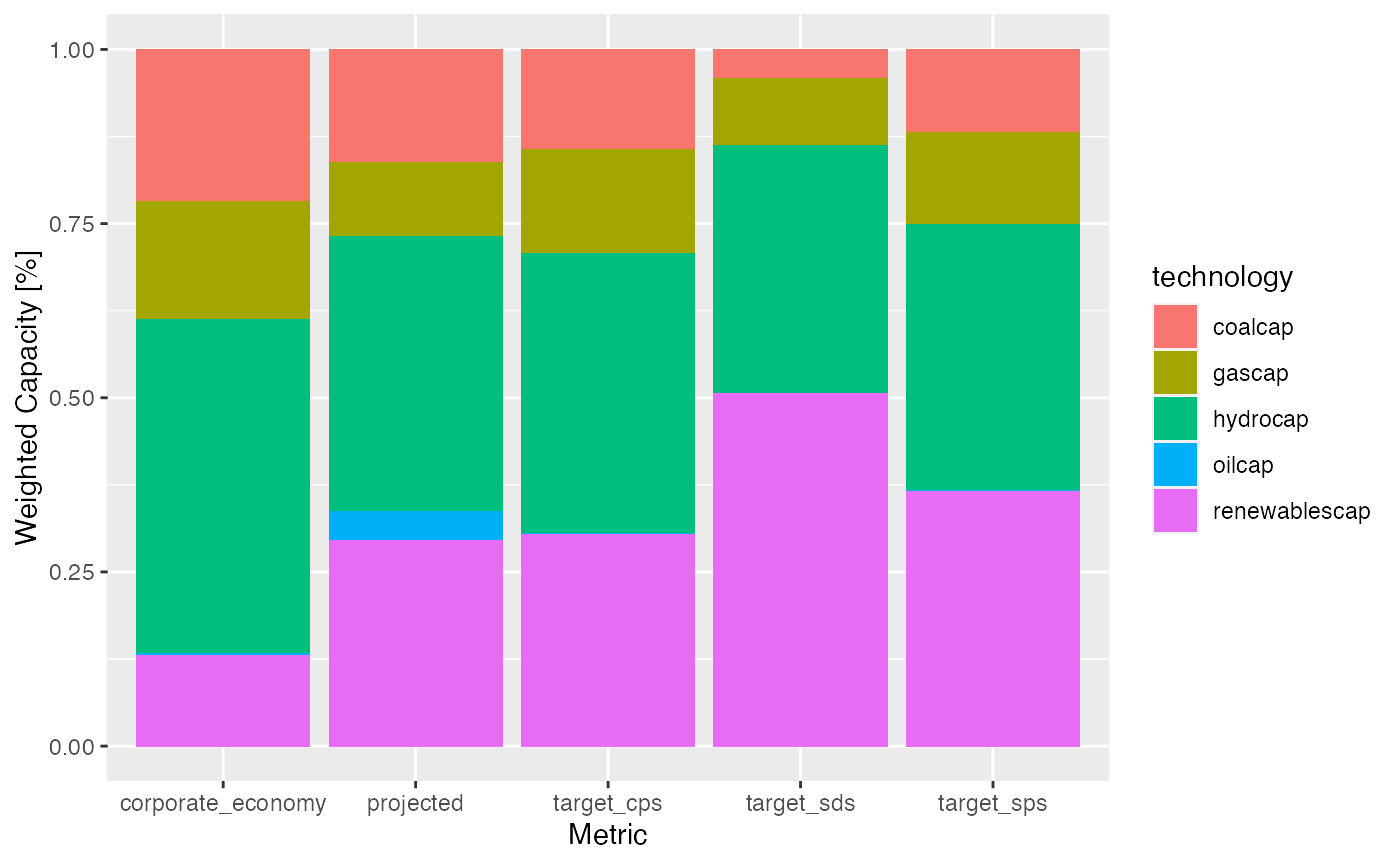
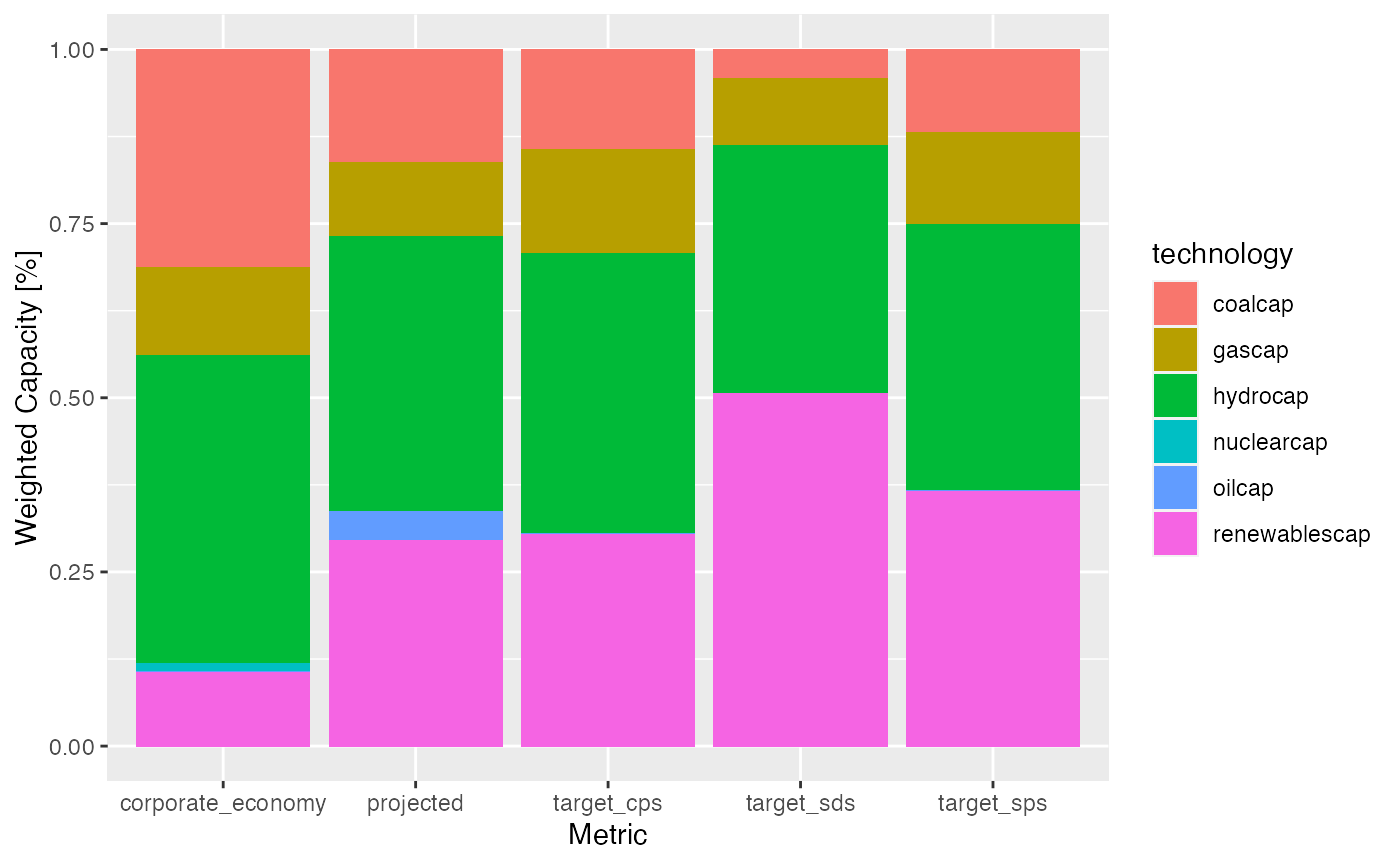
Built site for r2dii.analysis: 0.1.1.9000@3ea4984

Changed region(s): [[0.0921, 0.1561, 0.9829, 0.7803]]

diff --git a/dev/reference/target_market_share.html b/dev/reference/target_market_share.html
@@ -258,20 +258,20 @@ column <code>name_ald</code>.</p>
     scenario <span class='op'>=</span> <span class='va'>scenario_demo_2020</span>,
     region_isos <span class='op'>=</span> <span class='va'>region_isos_demo</span>
   <span class='op'>)</span>
-</div><div class='output co'>#&gt; <span style='color: #555555;'># A tibble: 1,170 x 8</span><span>
+</div><div class='output co'>#&gt; <span style='color: #555555;'># A tibble: 3,479 x 8</span><span>
 #&gt;    sector technology  year region scenario_source metric production
 #&gt;    </span><span style='color: #555555;font-style: italic;'>&lt;chr&gt;</span><span>  </span><span style='color: #555555;font-style: italic;'>&lt;chr&gt;</span><span>      </span><span style='color: #555555;font-style: italic;'>&lt;int&gt;</span><span> </span><span style='color: #555555;font-style: italic;'>&lt;chr&gt;</span><span>  </span><span style='color: #555555;font-style: italic;'>&lt;chr&gt;</span><span>           </span><span style='color: #555555;font-style: italic;'>&lt;chr&gt;</span><span>       </span><span style='color: #555555;font-style: italic;'>&lt;dbl&gt;</span><span>
 #&gt; </span><span style='color: #555555;'> 1</span><span> autom… electric    </span><span style='text-decoration: underline;'>2</span><span>020 global demo_2020       proje…    </span><span style='text-decoration: underline;'>145</span><span>942.
-#&gt; </span><span style='color: #555555;'> 2</span><span> autom… electric    </span><span style='text-decoration: underline;'>2</span><span>020 global demo_2020       corpo…   8</span><span style='text-decoration: underline;'>134</span><span>869.
+#&gt; </span><span style='color: #555555;'> 2</span><span> autom… electric    </span><span style='text-decoration: underline;'>2</span><span>020 global demo_2020       targe…    </span><span style='text-decoration: underline;'>145</span><span>942.
 #&gt; </span><span style='color: #555555;'> 3</span><span> autom… electric    </span><span style='text-decoration: underline;'>2</span><span>020 global demo_2020       targe…    </span><span style='text-decoration: underline;'>145</span><span>942.
 #&gt; </span><span style='color: #555555;'> 4</span><span> autom… electric    </span><span style='text-decoration: underline;'>2</span><span>020 global demo_2020       targe…    </span><span style='text-decoration: underline;'>145</span><span>942.
-#&gt; </span><span style='color: #555555;'> 5</span><span> autom… electric    </span><span style='text-decoration: underline;'>2</span><span>020 global demo_2020       targe…    </span><span style='text-decoration: underline;'>145</span><span>942.
-#&gt; </span><span style='color: #555555;'> 6</span><span> autom… electric    </span><span style='text-decoration: underline;'>2</span><span>021 global demo_2020       proje…    </span><span style='text-decoration: underline;'>148</span><span>212.
-#&gt; </span><span style='color: #555555;'> 7</span><span> autom… electric    </span><span style='text-decoration: underline;'>2</span><span>021 global demo_2020       corpo…   8</span><span style='text-decoration: underline;'>183</span><span>411.
-#&gt; </span><span style='color: #555555;'> 8</span><span> autom… electric    </span><span style='text-decoration: underline;'>2</span><span>021 global demo_2020       targe…    </span><span style='text-decoration: underline;'>148</span><span>361.
-#&gt; </span><span style='color: #555555;'> 9</span><span> autom… electric    </span><span style='text-decoration: underline;'>2</span><span>021 global demo_2020       targe…    </span><span style='text-decoration: underline;'>160</span><span>625.
-#&gt; </span><span style='color: #555555;'>10</span><span> autom… electric    </span><span style='text-decoration: underline;'>2</span><span>021 global demo_2020       targe…    </span><span style='text-decoration: underline;'>149</span><span>016.
-#&gt; </span><span style='color: #555555;'># … with 1,160 more rows, and 1 more variable: technology_share </span><span style='color: #555555;font-style: italic;'>&lt;dbl&gt;</span><span></div><div class='input'>
+#&gt; </span><span style='color: #555555;'> 5</span><span> autom… electric    </span><span style='text-decoration: underline;'>2</span><span>021 global demo_2020       proje…    </span><span style='text-decoration: underline;'>148</span><span>212.
+#&gt; </span><span style='color: #555555;'> 6</span><span> autom… electric    </span><span style='text-decoration: underline;'>2</span><span>021 global demo_2020       targe…    </span><span style='text-decoration: underline;'>148</span><span>361.
+#&gt; </span><span style='color: #555555;'> 7</span><span> autom… electric    </span><span style='text-decoration: underline;'>2</span><span>021 global demo_2020       targe…    </span><span style='text-decoration: underline;'>160</span><span>625.
+#&gt; </span><span style='color: #555555;'> 8</span><span> autom… electric    </span><span style='text-decoration: underline;'>2</span><span>021 global demo_2020       targe…    </span><span style='text-decoration: underline;'>149</span><span>016.
+#&gt; </span><span style='color: #555555;'> 9</span><span> autom… electric    </span><span style='text-decoration: underline;'>2</span><span>022 global demo_2020       proje…    </span><span style='text-decoration: underline;'>150</span><span>481.
+#&gt; </span><span style='color: #555555;'>10</span><span> autom… electric    </span><span style='text-decoration: underline;'>2</span><span>022 global demo_2020       targe…    </span><span style='text-decoration: underline;'>150</span><span>730.
+#&gt; </span><span style='color: #555555;'># … with 3,469 more rows, and 1 more variable: technology_share </span><span style='color: #555555;font-style: italic;'>&lt;dbl&gt;</span><span></div><div class='input'>
 <span class='co'># Calculate targets at company level</span>
 <span class='va'>matched</span> <span class='op'>%&gt;%</span>
   <span class='fu'>target_market_share</span><span class='op'>(</span>
@@ -283,20 +283,20 @@ column <code>name_ald</code>.</p>
 </div><div class='output co'>#&gt; <span class='warning'>Warning: You've supplied `by_company = TRUE` and `weight_production = TRUE`.</span>
 #&gt; <span class='warning'>This will result in company-level results, weighted by the portfolio</span>
 #&gt; <span class='warning'>loan size, which is rarely useful. Did you mean to set one of these</span>
-#&gt; <span class='warning'>arguments to `FALSE`?</span></div><div class='output co'>#&gt; </span><span style='color: #555555;'># A tibble: 15,945 x 9</span><span>
+#&gt; <span class='warning'>arguments to `FALSE`?</span></div><div class='output co'>#&gt; </span><span style='color: #555555;'># A tibble: 15,299 x 9</span><span>
 #&gt;    sector technology  year region scenario_source name_ald metric production
 #&gt;    </span><span style='color: #555555;font-style: italic;'>&lt;chr&gt;</span><span>  </span><span style='color: #555555;font-style: italic;'>&lt;chr&gt;</span><span>      </span><span style='color: #555555;font-style: italic;'>&lt;int&gt;</span><span> </span><span style='color: #555555;font-style: italic;'>&lt;chr&gt;</span><span>  </span><span style='color: #555555;font-style: italic;'>&lt;chr&gt;</span><span>           </span><span style='color: #555555;font-style: italic;'>&lt;chr&gt;</span><span>    </span><span style='color: #555555;font-style: italic;'>&lt;chr&gt;</span><span>       </span><span style='color: #555555;font-style: italic;'>&lt;dbl&gt;</span><span>
 #&gt; </span><span style='color: #555555;'> 1</span><span> autom… electric    </span><span style='text-decoration: underline;'>2</span><span>020 global demo_2020       shangha… proje…      </span><span style='text-decoration: underline;'>5</span><span>140.
-#&gt; </span><span style='color: #555555;'> 2</span><span> autom… electric    </span><span style='text-decoration: underline;'>2</span><span>020 global demo_2020       shangha… corpo…   8</span><span style='text-decoration: underline;'>134</span><span>869.
+#&gt; </span><span style='color: #555555;'> 2</span><span> autom… electric    </span><span style='text-decoration: underline;'>2</span><span>020 global demo_2020       shangha… targe…      </span><span style='text-decoration: underline;'>5</span><span>140.
 #&gt; </span><span style='color: #555555;'> 3</span><span> autom… electric    </span><span style='text-decoration: underline;'>2</span><span>020 global demo_2020       shangha… targe…      </span><span style='text-decoration: underline;'>5</span><span>140.
 #&gt; </span><span style='color: #555555;'> 4</span><span> autom… electric    </span><span style='text-decoration: underline;'>2</span><span>020 global demo_2020       shangha… targe…      </span><span style='text-decoration: underline;'>5</span><span>140.
-#&gt; </span><span style='color: #555555;'> 5</span><span> autom… electric    </span><span style='text-decoration: underline;'>2</span><span>020 global demo_2020       shangha… targe…      </span><span style='text-decoration: underline;'>5</span><span>140.
-#&gt; </span><span style='color: #555555;'> 6</span><span> autom… electric    </span><span style='text-decoration: underline;'>2</span><span>020 global demo_2020       sichuan… proje…      </span><span style='text-decoration: underline;'>2</span><span>992.
-#&gt; </span><span style='color: #555555;'> 7</span><span> autom… electric    </span><span style='text-decoration: underline;'>2</span><span>020 global demo_2020       sichuan… corpo…   8</span><span style='text-decoration: underline;'>134</span><span>869.
+#&gt; </span><span style='color: #555555;'> 5</span><span> autom… electric    </span><span style='text-decoration: underline;'>2</span><span>020 global demo_2020       sichuan… proje…      </span><span style='text-decoration: underline;'>2</span><span>992.
+#&gt; </span><span style='color: #555555;'> 6</span><span> autom… electric    </span><span style='text-decoration: underline;'>2</span><span>020 global demo_2020       sichuan… targe…      </span><span style='text-decoration: underline;'>2</span><span>992.
+#&gt; </span><span style='color: #555555;'> 7</span><span> autom… electric    </span><span style='text-decoration: underline;'>2</span><span>020 global demo_2020       sichuan… targe…      </span><span style='text-decoration: underline;'>2</span><span>992.
 #&gt; </span><span style='color: #555555;'> 8</span><span> autom… electric    </span><span style='text-decoration: underline;'>2</span><span>020 global demo_2020       sichuan… targe…      </span><span style='text-decoration: underline;'>2</span><span>992.
-#&gt; </span><span style='color: #555555;'> 9</span><span> autom… electric    </span><span style='text-decoration: underline;'>2</span><span>020 global demo_2020       sichuan… targe…      </span><span style='text-decoration: underline;'>2</span><span>992.
-#&gt; </span><span style='color: #555555;'>10</span><span> autom… electric    </span><span style='text-decoration: underline;'>2</span><span>020 global demo_2020       sichuan… targe…      </span><span style='text-decoration: underline;'>2</span><span>992.
-#&gt; </span><span style='color: #555555;'># … with 15,935 more rows, and 1 more variable: technology_share </span><span style='color: #555555;font-style: italic;'>&lt;dbl&gt;</span><span></div><div class='input'>
+#&gt; </span><span style='color: #555555;'> 9</span><span> autom… electric    </span><span style='text-decoration: underline;'>2</span><span>020 global demo_2020       singula… proje…      </span><span style='text-decoration: underline;'>8</span><span>674.
+#&gt; </span><span style='color: #555555;'>10</span><span> autom… electric    </span><span style='text-decoration: underline;'>2</span><span>020 global demo_2020       singula… targe…      </span><span style='text-decoration: underline;'>8</span><span>674.
+#&gt; </span><span style='color: #555555;'># … with 15,289 more rows, and 1 more variable: technology_share </span><span style='color: #555555;font-style: italic;'>&lt;dbl&gt;</span><span></div><div class='input'>
 <span class='va'>matched</span> <span class='op'>%&gt;%</span>
   <span class='fu'>target_market_share</span><span class='op'>(</span>
     ald <span class='op'>=</span> <span class='va'>ald_demo</span>,
@@ -305,20 +305,20 @@ column <code>name_ald</code>.</p>
     <span class='co'># Calculate unweighted targets</span>
     weight_production <span class='op'>=</span> <span class='cn'>FALSE</span>
   <span class='op'>)</span>
-</div><div class='output co'>#&gt; </span><span style='color: #555555;'># A tibble: 1,170 x 8</span><span>
+</div><div class='output co'>#&gt; </span><span style='color: #555555;'># A tibble: 3,479 x 8</span><span>
 #&gt;    sector technology  year region scenario_source metric production
 #&gt;    </span><span style='color: #555555;font-style: italic;'>&lt;chr&gt;</span><span>  </span><span style='color: #555555;font-style: italic;'>&lt;chr&gt;</span><span>      </span><span style='color: #555555;font-style: italic;'>&lt;int&gt;</span><span> </span><span style='color: #555555;font-style: italic;'>&lt;chr&gt;</span><span>  </span><span style='color: #555555;font-style: italic;'>&lt;chr&gt;</span><span>           </span><span style='color: #555555;font-style: italic;'>&lt;chr&gt;</span><span>       </span><span style='color: #555555;font-style: italic;'>&lt;dbl&gt;</span><span>
 #&gt; </span><span style='color: #555555;'> 1</span><span> autom… electric    </span><span style='text-decoration: underline;'>2</span><span>020 global demo_2020       proje…   6</span><span style='text-decoration: underline;'>630</span><span>404.
-#&gt; </span><span style='color: #555555;'> 2</span><span> autom… electric    </span><span style='text-decoration: underline;'>2</span><span>020 global demo_2020       corpo…   8</span><span style='text-decoration: underline;'>134</span><span>869.
+#&gt; </span><span style='color: #555555;'> 2</span><span> autom… electric    </span><span style='text-decoration: underline;'>2</span><span>020 global demo_2020       targe…   6</span><span style='text-decoration: underline;'>630</span><span>404.
 #&gt; </span><span style='color: #555555;'> 3</span><span> autom… electric    </span><span style='text-decoration: underline;'>2</span><span>020 global demo_2020       targe…   6</span><span style='text-decoration: underline;'>630</span><span>404.
 #&gt; </span><span style='color: #555555;'> 4</span><span> autom… electric    </span><span style='text-decoration: underline;'>2</span><span>020 global demo_2020       targe…   6</span><span style='text-decoration: underline;'>630</span><span>404.
-#&gt; </span><span style='color: #555555;'> 5</span><span> autom… electric    </span><span style='text-decoration: underline;'>2</span><span>020 global demo_2020       targe…   6</span><span style='text-decoration: underline;'>630</span><span>404.
-#&gt; </span><span style='color: #555555;'> 6</span><span> autom… electric    </span><span style='text-decoration: underline;'>2</span><span>021 global demo_2020       proje…   6</span><span style='text-decoration: underline;'>731</span><span>628.
-#&gt; </span><span style='color: #555555;'> 7</span><span> autom… electric    </span><span style='text-decoration: underline;'>2</span><span>021 global demo_2020       corpo…   8</span><span style='text-decoration: underline;'>183</span><span>411.
-#&gt; </span><span style='color: #555555;'> 8</span><span> autom… electric    </span><span style='text-decoration: underline;'>2</span><span>021 global demo_2020       targe…   6</span><span style='text-decoration: underline;'>743</span><span>979.
-#&gt; </span><span style='color: #555555;'> 9</span><span> autom… electric    </span><span style='text-decoration: underline;'>2</span><span>021 global demo_2020       targe…   7</span><span style='text-decoration: underline;'>319</span><span>707.
-#&gt; </span><span style='color: #555555;'>10</span><span> autom… electric    </span><span style='text-decoration: underline;'>2</span><span>021 global demo_2020       targe…   6</span><span style='text-decoration: underline;'>774</span><span>698.
-#&gt; </span><span style='color: #555555;'># … with 1,160 more rows, and 1 more variable: technology_share </span><span style='color: #555555;font-style: italic;'>&lt;dbl&gt;</span><span></div></span></pre>
+#&gt; </span><span style='color: #555555;'> 5</span><span> autom… electric    </span><span style='text-decoration: underline;'>2</span><span>021 global demo_2020       proje…   6</span><span style='text-decoration: underline;'>731</span><span>628.
+#&gt; </span><span style='color: #555555;'> 6</span><span> autom… electric    </span><span style='text-decoration: underline;'>2</span><span>021 global demo_2020       targe…   6</span><span style='text-decoration: underline;'>743</span><span>979.
+#&gt; </span><span style='color: #555555;'> 7</span><span> autom… electric    </span><span style='text-decoration: underline;'>2</span><span>021 global demo_2020       targe…   7</span><span style='text-decoration: underline;'>319</span><span>707.
+#&gt; </span><span style='color: #555555;'> 8</span><span> autom… electric    </span><span style='text-decoration: underline;'>2</span><span>021 global demo_2020       targe…   6</span><span style='text-decoration: underline;'>774</span><span>698.
+#&gt; </span><span style='color: #555555;'> 9</span><span> autom… electric    </span><span style='text-decoration: underline;'>2</span><span>022 global demo_2020       proje…   6</span><span style='text-decoration: underline;'>832</span><span>852.
+#&gt; </span><span style='color: #555555;'>10</span><span> autom… electric    </span><span style='text-decoration: underline;'>2</span><span>022 global demo_2020       targe…   6</span><span style='text-decoration: underline;'>855</span><span>166.
+#&gt; </span><span style='color: #555555;'># … with 3,469 more rows, and 1 more variable: technology_share </span><span style='color: #555555;font-style: italic;'>&lt;dbl&gt;</span><span></div></span></pre>
   </div>
   <div class="col-md-3 hidden-xs hidden-sm" id="pkgdown-sidebar">
     <nav id="toc" data-toggle="toc" class="sticky-top">

diff --git a/dev/articles/r2dii-analysis.html b/dev/articles/r2dii-analysis.html
@@ -211,20 +211,20 @@
   <span class="op">)</span>
 
 <span class="va">market_share_targets_portfolio</span>
-<span class="co">#&gt; # A tibble: 1,170 x 8</span>
+<span class="co">#&gt; # A tibble: 3,479 x 8</span>
 <span class="co">#&gt;    sector technology  year region scenario_source metric production</span>
 <span class="co">#&gt;    &lt;chr&gt;  &lt;chr&gt;      &lt;int&gt; &lt;chr&gt;  &lt;chr&gt;           &lt;chr&gt;       &lt;dbl&gt;</span>
 <span class="co">#&gt;  1 autom… electric    2020 global demo_2020       proje…    145942.</span>
-<span class="co">#&gt;  2 autom… electric    2020 global demo_2020       corpo…   8134869.</span>
+<span class="co">#&gt;  2 autom… electric    2020 global demo_2020       targe…    145942.</span>
 <span class="co">#&gt;  3 autom… electric    2020 global demo_2020       targe…    145942.</span>
 <span class="co">#&gt;  4 autom… electric    2020 global demo_2020       targe…    145942.</span>
-<span class="co">#&gt;  5 autom… electric    2020 global demo_2020       targe…    145942.</span>
-<span class="co">#&gt;  6 autom… electric    2021 global demo_2020       proje…    148212.</span>
-<span class="co">#&gt;  7 autom… electric    2021 global demo_2020       corpo…   8183411.</span>
-<span class="co">#&gt;  8 autom… electric    2021 global demo_2020       targe…    148361.</span>
-<span class="co">#&gt;  9 autom… electric    2021 global demo_2020       targe…    160625.</span>
-<span class="co">#&gt; 10 autom… electric    2021 global demo_2020       targe…    149016.</span>
-<span class="co">#&gt; # … with 1,160 more rows, and 1 more variable: technology_share &lt;dbl&gt;</span></code></pre></div>
+<span class="co">#&gt;  5 autom… electric    2021 global demo_2020       proje…    148212.</span>
+<span class="co">#&gt;  6 autom… electric    2021 global demo_2020       targe…    148361.</span>
+<span class="co">#&gt;  7 autom… electric    2021 global demo_2020       targe…    160625.</span>
+<span class="co">#&gt;  8 autom… electric    2021 global demo_2020       targe…    149016.</span>
+<span class="co">#&gt;  9 autom… electric    2022 global demo_2020       proje…    150481.</span>
+<span class="co">#&gt; 10 autom… electric    2022 global demo_2020       targe…    150730.</span>
+<span class="co">#&gt; # … with 3,469 more rows, and 1 more variable: technology_share &lt;dbl&gt;</span></code></pre></div>
 <p>Or at the company level:</p>
 <div class="sourceCode" id="cb5"><pre class="downlit sourceCode r">
 <code class="sourceCode R"><span class="va">market_share_targets_company</span> <span class="op">&lt;-</span> <span class="va">matched</span> <span class="op">%&gt;%</span>
@@ -241,20 +241,20 @@
 <span class="co">#&gt; arguments to `FALSE`?</span>
 
 <span class="va">market_share_targets_company</span>
-<span class="co">#&gt; # A tibble: 15,945 x 9</span>
+<span class="co">#&gt; # A tibble: 15,299 x 9</span>
 <span class="co">#&gt;    sector technology  year region scenario_source name_ald metric production</span>
 <span class="co">#&gt;    &lt;chr&gt;  &lt;chr&gt;      &lt;int&gt; &lt;chr&gt;  &lt;chr&gt;           &lt;chr&gt;    &lt;chr&gt;       &lt;dbl&gt;</span>
 <span class="co">#&gt;  1 autom… electric    2020 global demo_2020       shangha… proje…      5140.</span>
-<span class="co">#&gt;  2 autom… electric    2020 global demo_2020       shangha… corpo…   8134869.</span>
+<span class="co">#&gt;  2 autom… electric    2020 global demo_2020       shangha… targe…      5140.</span>
 <span class="co">#&gt;  3 autom… electric    2020 global demo_2020       shangha… targe…      5140.</span>
 <span class="co">#&gt;  4 autom… electric    2020 global demo_2020       shangha… targe…      5140.</span>
-<span class="co">#&gt;  5 autom… electric    2020 global demo_2020       shangha… targe…      5140.</span>
-<span class="co">#&gt;  6 autom… electric    2020 global demo_2020       sichuan… proje…      2992.</span>
-<span class="co">#&gt;  7 autom… electric    2020 global demo_2020       sichuan… corpo…   8134869.</span>
+<span class="co">#&gt;  5 autom… electric    2020 global demo_2020       sichuan… proje…      2992.</span>
+<span class="co">#&gt;  6 autom… electric    2020 global demo_2020       sichuan… targe…      2992.</span>
+<span class="co">#&gt;  7 autom… electric    2020 global demo_2020       sichuan… targe…      2992.</span>
 <span class="co">#&gt;  8 autom… electric    2020 global demo_2020       sichuan… targe…      2992.</span>
-<span class="co">#&gt;  9 autom… electric    2020 global demo_2020       sichuan… targe…      2992.</span>
-<span class="co">#&gt; 10 autom… electric    2020 global demo_2020       sichuan… targe…      2992.</span>
-<span class="co">#&gt; # … with 15,935 more rows, and 1 more variable: technology_share &lt;dbl&gt;</span></code></pre></div>
+<span class="co">#&gt;  9 autom… electric    2020 global demo_2020       singula… proje…      8674.</span>
+<span class="co">#&gt; 10 autom… electric    2020 global demo_2020       singula… targe…      8674.</span>
+<span class="co">#&gt; # … with 15,289 more rows, and 1 more variable: technology_share &lt;dbl&gt;</span></code></pre></div>
 </div>
 <div id="sectoral-decarbonization-approach" class="section level3">
 <h3 class="hasAnchor">
@@ -383,7 +383,10 @@
       linetype <span class="op">=</span> <span class="va">metric</span>
     <span class="op">)</span>
   <span class="op">)</span> <span class="op">+</span>
-  <span class="fu">facet_wrap</span><span class="op">(</span><span class="fu">vars</span><span class="op">(</span><span class="va">sector</span>, <span class="va">technology</span><span class="op">)</span><span class="op">)</span></code></pre></div>
+  <span class="fu">facet_wrap</span><span class="op">(</span><span class="fu">vars</span><span class="op">(</span><span class="va">sector</span>, <span class="va">technology</span><span class="op">)</span><span class="op">)</span>
+<span class="co">#&gt; Warning in max(ids, na.rm = TRUE): no non-missing arguments to max; returning -</span>
+<span class="co">#&gt; Inf</span>
+<span class="co">#&gt; Warning: Removed 35 row(s) containing missing values (geom_path).</span></code></pre></div>
 <p><img src="r2dii-analysis_files/figure-html/plot-year-versus-weithed-production-value-1.png" width="100%"></p>
 </div>
 <div id="sda-target" class="section level3">

diff --git a/dev/articles/target-market-share.html b/dev/articles/target-market-share.html
@@ -223,20 +223,20 @@
 
 
 <span class="va">matched</span> <span class="op">%&gt;%</span> <span class="fu"><a href="../reference/target_market_share.html">target_market_share</a></span><span class="op">(</span><span class="va">ald</span>, <span class="va">scenario</span>, <span class="va">regions</span><span class="op">)</span>
-<span class="co">#&gt; # A tibble: 1,170 x 8</span>
+<span class="co">#&gt; # A tibble: 3,479 x 8</span>
 <span class="co">#&gt;    sector technology  year region scenario_source metric production</span>
 <span class="co">#&gt;    &lt;chr&gt;  &lt;chr&gt;      &lt;int&gt; &lt;chr&gt;  &lt;chr&gt;           &lt;chr&gt;       &lt;dbl&gt;</span>
 <span class="co">#&gt;  1 autom… electric    2020 global demo_2020       proje…    145942.</span>
-<span class="co">#&gt;  2 autom… electric    2020 global demo_2020       corpo…   8134869.</span>
+<span class="co">#&gt;  2 autom… electric    2020 global demo_2020       targe…    145942.</span>
 <span class="co">#&gt;  3 autom… electric    2020 global demo_2020       targe…    145942.</span>
 <span class="co">#&gt;  4 autom… electric    2020 global demo_2020       targe…    145942.</span>
-<span class="co">#&gt;  5 autom… electric    2020 global demo_2020       targe…    145942.</span>
-<span class="co">#&gt;  6 autom… electric    2021 global demo_2020       proje…    148212.</span>
-<span class="co">#&gt;  7 autom… electric    2021 global demo_2020       corpo…   8183411.</span>
-<span class="co">#&gt;  8 autom… electric    2021 global demo_2020       targe…    148361.</span>
-<span class="co">#&gt;  9 autom… electric    2021 global demo_2020       targe…    160625.</span>
-<span class="co">#&gt; 10 autom… electric    2021 global demo_2020       targe…    149016.</span>
-<span class="co">#&gt; # … with 1,160 more rows, and 1 more variable: technology_share &lt;dbl&gt;</span></code></pre></div>
+<span class="co">#&gt;  5 autom… electric    2021 global demo_2020       proje…    148212.</span>
+<span class="co">#&gt;  6 autom… electric    2021 global demo_2020       targe…    148361.</span>
+<span class="co">#&gt;  7 autom… electric    2021 global demo_2020       targe…    160625.</span>
+<span class="co">#&gt;  8 autom… electric    2021 global demo_2020       targe…    149016.</span>
+<span class="co">#&gt;  9 autom… electric    2022 global demo_2020       proje…    150481.</span>
+<span class="co">#&gt; 10 autom… electric    2022 global demo_2020       targe…    150730.</span>
+<span class="co">#&gt; # … with 3,469 more rows, and 1 more variable: technology_share &lt;dbl&gt;</span></code></pre></div>
 <ul>
 <li>Calculate market-share targets for production at the company level.</li>
 </ul>
@@ -246,20 +246,20 @@
 <span class="co">#&gt; This will result in company-level results, weighted by the portfolio</span>
 <span class="co">#&gt; loan size, which is rarely useful. Did you mean to set one of these</span>
 <span class="co">#&gt; arguments to `FALSE`?</span>
-<span class="co">#&gt; # A tibble: 15,945 x 9</span>
+<span class="co">#&gt; # A tibble: 15,299 x 9</span>
 <span class="co">#&gt;    sector technology  year region scenario_source name_ald metric production</span>
 <span class="co">#&gt;    &lt;chr&gt;  &lt;chr&gt;      &lt;int&gt; &lt;chr&gt;  &lt;chr&gt;           &lt;chr&gt;    &lt;chr&gt;       &lt;dbl&gt;</span>
 <span class="co">#&gt;  1 autom… electric    2020 global demo_2020       shangha… proje…      5140.</span>
-<span class="co">#&gt;  2 autom… electric    2020 global demo_2020       shangha… corpo…   8134869.</span>
+<span class="co">#&gt;  2 autom… electric    2020 global demo_2020       shangha… targe…      5140.</span>
 <span class="co">#&gt;  3 autom… electric    2020 global demo_2020       shangha… targe…      5140.</span>
 <span class="co">#&gt;  4 autom… electric    2020 global demo_2020       shangha… targe…      5140.</span>
-<span class="co">#&gt;  5 autom… electric    2020 global demo_2020       shangha… targe…      5140.</span>
-<span class="co">#&gt;  6 autom… electric    2020 global demo_2020       sichuan… proje…      2992.</span>
-<span class="co">#&gt;  7 autom… electric    2020 global demo_2020       sichuan… corpo…   8134869.</span>
+<span class="co">#&gt;  5 autom… electric    2020 global demo_2020       sichuan… proje…      2992.</span>
+<span class="co">#&gt;  6 autom… electric    2020 global demo_2020       sichuan… targe…      2992.</span>
+<span class="co">#&gt;  7 autom… electric    2020 global demo_2020       sichuan… targe…      2992.</span>
 <span class="co">#&gt;  8 autom… electric    2020 global demo_2020       sichuan… targe…      2992.</span>
-<span class="co">#&gt;  9 autom… electric    2020 global demo_2020       sichuan… targe…      2992.</span>
-<span class="co">#&gt; 10 autom… electric    2020 global demo_2020       sichuan… targe…      2992.</span>
-<span class="co">#&gt; # … with 15,935 more rows, and 1 more variable: technology_share &lt;dbl&gt;</span></code></pre></div>
+<span class="co">#&gt;  9 autom… electric    2020 global demo_2020       singula… proje…      8674.</span>
+<span class="co">#&gt; 10 autom… electric    2020 global demo_2020       singula… targe…      8674.</span>
+<span class="co">#&gt; # … with 15,289 more rows, and 1 more variable: technology_share &lt;dbl&gt;</span></code></pre></div>
 </div>
   </div>
 

diff --git a/dev/news/index.html b/dev/news/index.html
@@ -169,6 +169,7 @@
 <a href="#r2diianalysis-development-version" class="anchor"></a>r2dii.analysis (development version)<small> Unreleased </small>
 </h1>
 <ul>
+<li><p><code>target_market_share</code> now outputs all technologies present in <code>ald</code>, even if they are not present in <code>data</code> (<a href='https://github.com/2DegreesInvesting/r2dii.analysis/issues/235'>#235</a>).</p></li>
 <li><p>New internal data <code>loanbook_stable</code> and <code>region_isos_stable</code> make regression tests more stable (<a href='https://github.com/2DegreesInvesting/r2dii.analysis/issues/227'>#227</a>).</p></li>
 <li><p>Hyperlinks on the “Get Started” tab of the website now points to correct links (<a href='https://github.com/2DegreesInvesting/r2dii.analysis/issues/222'>#222</a> <a href='https://github.com/apmanning'>@apmanning</a>).</p></li>
 <li><p>Depend on dplyr &gt;= 0.8.5, explicitly. We commit to this version because the newer dplyr 1 is still relatively new, and represents a major change which some users initially resist.</p></li>
